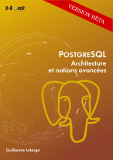
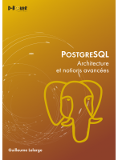
Update entry on the book from Guillaume, per his patch on pgsql-www...

diff --git a/templates/pages/docs/books.html b/templates/pages/docs/books.html
@@ -12,6 +12,22 @@
 
 <tr>
         <td class="colFirst">
+            <a href="http://www.d-booker.fr/postgresql/187-architecture-et-notions-avancees.html"><img
+                        src="/media/img/docs/books/architecture-et-notions-avancees.png"
+                        alt="PostgreSQL - Architecture et notions avancées" /></a>
+        </td>
+        <td class="colLast">
+                 <b>Title</b>: PostgreSQL - Architecture et notions avancées<br />
+                 <b>Author</b>: Guillaume Lelarge<br />
+                 <b>Language</b>: French<br />
+                 <b>Current version at publication</b>: 9.5<br />
+                 <b>Format</b>: Paperback, eBook<br />
+                 <b>Published</b>: December 2015<br />
+        </td>
+</tr>
+
+<tr>
+        <td class="colFirst">
             <a href="https://www.packtpub.com/big-data-and-business-intelligence/postgresql-9-administration-cookbook-second-edition/?utm_source=PoD&utm_medium=referral&utm_campaign=1849519064"><img
                         src="/media/img/docs/books/packt_postgresql_9_admin_cookbook.png"
                         alt="PostgreSQL 9 Administration Cookbook - Second Edition" /></a>
@@ -135,22 +151,6 @@
                  <b>Current version at publication</b>: 9.3<br />
                  <b>Format</b>: Paperback, eBook<br />
                  <b>Published</b>: July 2014<br />
-        </td>
-</tr>
-
-<tr>
-        <td class="colFirst">
-            <a href="http://www.d-booker.fr/postgresql/187-architecture-et-notions-avancees.html"><img
-                        src="/media/img/docs/books/architecture-et-notions-avancees.png"
-                        alt="PostgreSQL - Architecture et notions avancées" /></a>
-        </td>
-        <td class="colLast">
-                 <b>Title</b>: PostgreSQL - Architecture et notions avancées<br />
-                 <b>Author</b>: Guillaume Lelarge<br />
-                 <b>Language</b>: French<br />
-                 <b>Current version at publication</b>: 9.4<br />
-                 <b>Format</b>: eBook<br />
-                 <b>Published</b>: January 2015<br />
         </td>
 </tr>
 
